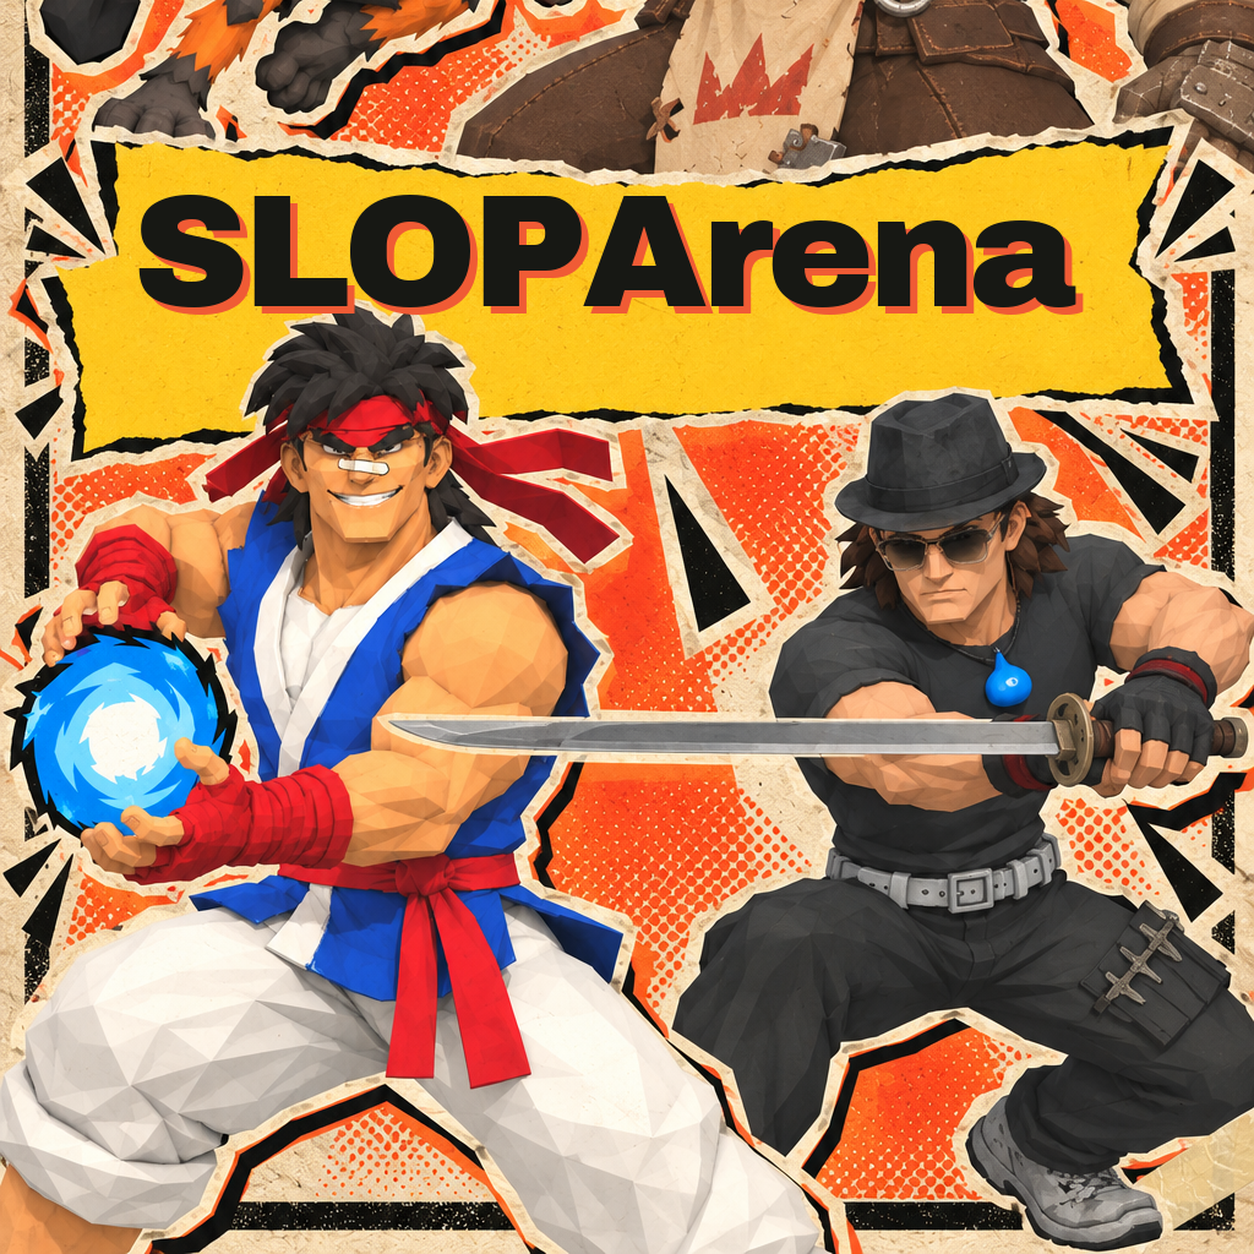
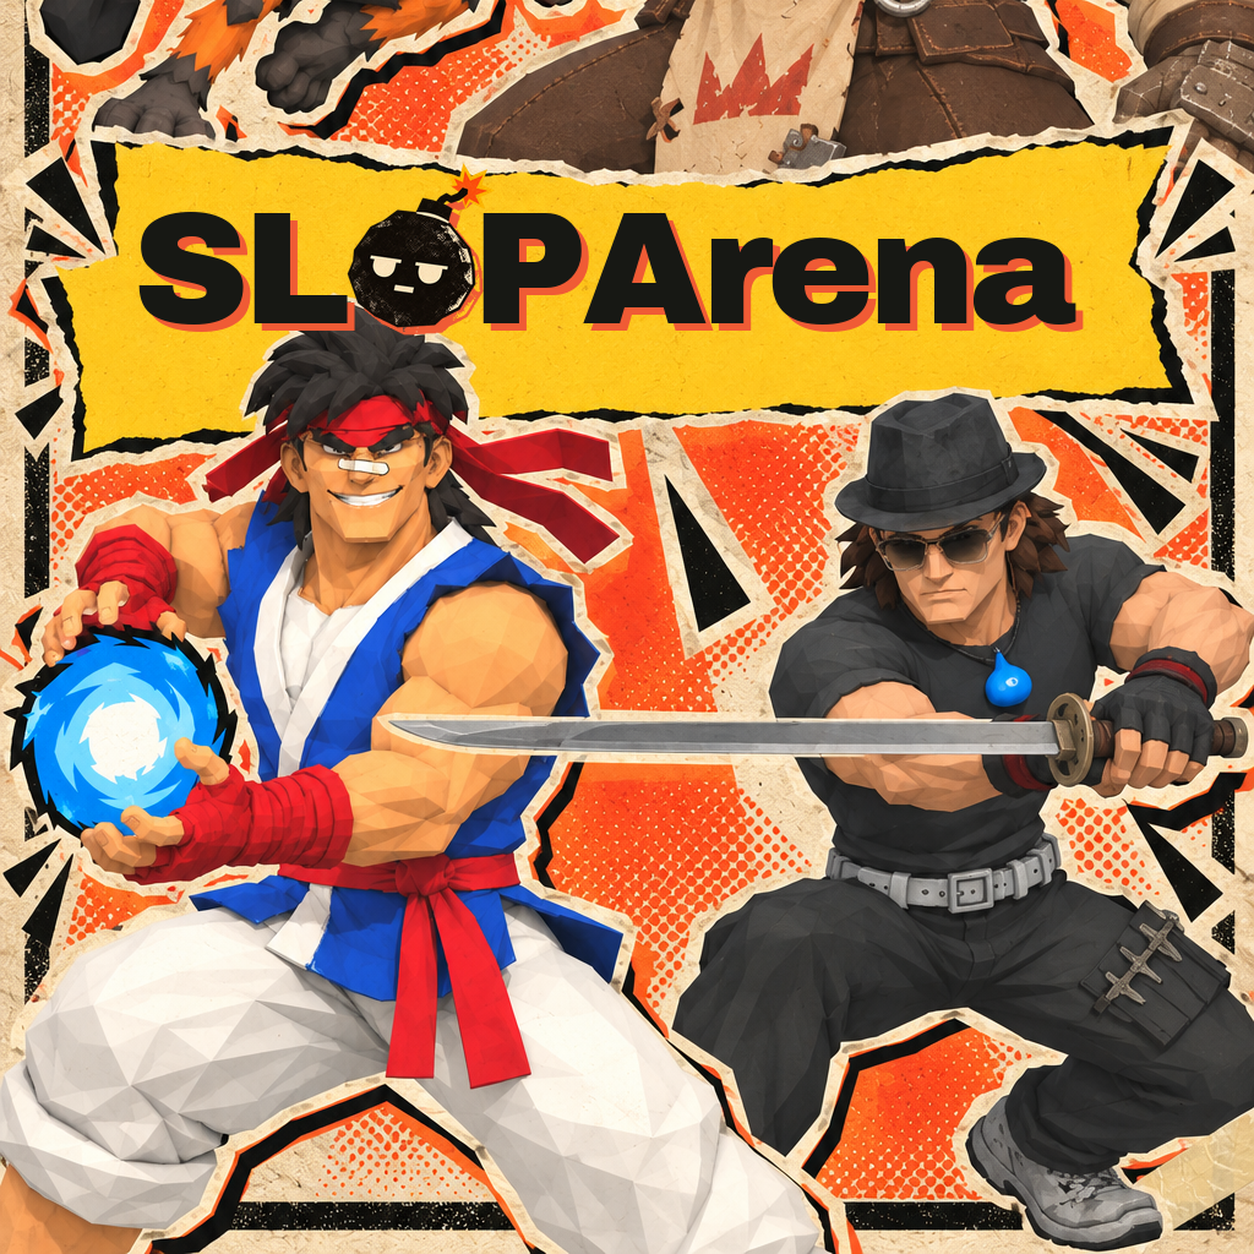
feat(art): bomb as the O in the large SLOPArena marks
The game icon's bomb stands in for the O on the Home poster, the After
Hours billboard and every mark the key art tool builds for Steam and the
website, its fuse and spark rising above the line. The top bar keeps the
plain letter, where the bomb's face would not read.

Changed region(s): [[0.0933, 0.1244, 0.8708, 0.2799]]

diff --git a/tools/key_art/key_art.py b/tools/key_art/key_art.py
@@ -1,11 +1,12 @@
 """Derive the game, Steam and website art from the generated key art originals.
 
 python3 tools/key_art/key_art.py build tools/key_art/set-2026-10-18.json [--only game,steam,web]
-python3 tools/key_art/key_art.py namemark <art.png> <out.png> --centre X Y --size PX [--angle DEG] [--tagline]
+python3 tools/key_art/key_art.py namemark <art.png> <out.png> --centre X Y --size PX [--angle DEG] [--bomb] [--tagline]
 
 The set file names the originals and every output: a byte copy, a crop and resize, the name mark
 typeset on a plate, the plate logo or an icon. The name mark is SLOPArena on one line in the bundled
-Archivo Black, never generated and never stacked as SLOP / ARENA (that reads as two words). See README.md.
+Archivo Black, never generated and never stacked as SLOP / ARENA (that reads as two words). On large
+marks the bomb from the game icon stands in for the O (`bomb`). See README.md.
 """
 import argparse
 import hashlib
@@ -14,10 +15,13 @@ import os
 import shutil
 from pathlib import Path
 
-from PIL import Image, ImageCms, ImageDraw, ImageFilter, ImageFont
+from PIL import Image, ImageChops, ImageCms, ImageDraw, ImageFilter, ImageFont
 
 REPO = Path(__file__).resolve().parents[2]
 FONTS = REPO / "client/Unity/Assets/Fonts"
+BOMB = REPO / "client/Unity/Assets/UI/SlopArenaIcon.png"
+# The bomb's round body in the 256 px icon, without its cap, fuse and spark: it takes the O's place.
+BOMB_BODY = (30, 75, 222, 253)
 INK, ORANGE, PAPER, YELLOW = (23, 24, 20, 255), (240, 91, 53, 255), (222, 216, 201, 255), (255, 204, 34, 255)
 # SlopArena-web's torn plate (scripts/social-preview.html): clip-path polygon in percent of the box.
 TORN = [(0, 3), (6, 0), (19, 2.4), (33, .4), (47, 2.2), (62, 0), (78, 2), (91, .2), (100, 1.8), (98.6, 19), (100, 37),
@@ -29,18 +33,48 @@ def font(name, size):
     return ImageFont.truetype(str(FONTS / name), size)
 
 
-def lettering(lines, size, tracking=-0.04, leading=0.89):
+def bomb_icon():
+    """The game icon and its dark silhouette (body, cap and fuse; not the spark) as a white mask."""
+    image = Image.open(BOMB).convert("RGBA")
+    dark = image.convert("L").point(lambda v: 255 if v < 90 else 0)
+    solid = image.getchannel("A").point(lambda v: 255 if v > 40 else 0)
+    silhouette = Image.new("RGBA", image.size, (255, 255, 255, 255))
+    silhouette.putalpha(ImageChops.multiply(dark, solid))
+    return image, silhouette
+
+
+def lettering(lines, size, tracking=-0.04, leading=0.89, bomb=False):
+    """White letter masks: (letters, bomb colour, bomb silhouette) on one canvas cropped to their ink.
+    With `bomb`, each O is left out and the bomb icon takes its place at 1.04x the O's height, its body
+    centred on the O and its fuse and spark rising above the line. Without it the bomb layers are None."""
     face = font("ArchivoBlack-Regular.ttf", size)
     widths = [sum(face.getlength(c) for c in line) + tracking * size * (len(line) - 1) for line in lines]
     ascent, descent = face.getmetrics()
-    layer = Image.new("RGBA", (int(max(widths)) + 4, int(size * leading) * (len(lines) - 1) + ascent + descent))
+    pad = size if bomb else 0
+    canvas = (int(max(widths)) + 4 + 2 * pad, int(size * leading) * (len(lines) - 1) + ascent + descent + 2 * pad)
+    layer = Image.new("RGBA", canvas)
+    colour = silhouette = None
+    if bomb:
+        icon, icon_silhouette = bomb_icon()
+        l, t, r, b = face.getbbox("O")
+        scale = 1.04 * (b - t) / (BOMB_BODY[3] - BOMB_BODY[1])
+        scaled = (round(icon.size[0] * scale), round(icon.size[1] * scale))
+        icon, icon_silhouette = icon.resize(scaled, Image.LANCZOS), icon_silhouette.resize(scaled, Image.LANCZOS)
+        body_x, body_y = (BOMB_BODY[0] + BOMB_BODY[2]) / 2 * scale, (BOMB_BODY[1] + BOMB_BODY[3]) / 2 * scale
+        colour, silhouette = Image.new("RGBA", canvas), Image.new("RGBA", canvas)
     draw = ImageDraw.Draw(layer)
     for row, line in enumerate(lines):
-        x = (layer.size[0] - widths[row]) / 2
+        x, y = (canvas[0] - widths[row]) / 2, pad + row * int(size * leading)
         for c in line:
-            draw.text((x, row * int(size * leading)), c, font=face, fill=(255, 255, 255, 255))
+            if bomb and c == "O":
+                at = (round(x + (l + r) / 2 - body_x), round(y + (t + b) / 2 - body_y))
+                colour.alpha_composite(icon, at)
+                silhouette.alpha_composite(icon_silhouette, at)
+            else:
+                draw.text((x, y), c, font=face, fill=(255, 255, 255, 255))
             x += face.getlength(c) + tracking * size
-    return layer.crop(layer.getbbox())
+    box = layer.getbbox() if colour is None else ImageChops.lighter(layer, colour).getbbox()
+    return tuple(None if part is None else part.crop(box) for part in (layer, colour, silhouette))
 
 
 def filled(mask, color):
@@ -49,13 +83,16 @@ def filled(mask, color):
     return out
 
 
-def name_mark(size, lines=("SLOPArena",), tagline=False):
+def name_mark(size, lines=("SLOPArena",), tagline=False, bomb=False):
     """Ink lettering over an off-register Orange print, as printed on the key art's yellow plates."""
-    mask = lettering(list(lines), size)
+    mask, colour, silhouette = lettering(list(lines), size, bomb=bomb)
+    printed = mask if silhouette is None else ImageChops.lighter(mask, silhouette)
     offset = max(4, size // 22)
     mark = Image.new("RGBA", (mask.size[0] + offset + 2, mask.size[1] + offset + 2))
-    mark.alpha_composite(filled(mask, ORANGE), (offset, offset))
+    mark.alpha_composite(filled(printed, ORANGE), (offset, offset))
     mark.alpha_composite(filled(mask, INK), (0, 0))
+    if colour is not None:
+        mark.alpha_composite(colour)
     if not tagline:
         return mark
     font_size = max(14, round(size * 0.26))
@@ -70,24 +107,19 @@ def name_mark(size, lines=("SLOPArena",), tagline=False):
     return block
 
 
-def stamp(art, centre, size, angle=0.0, lines=("SLOPArena",), tagline=False):
-    mark = name_mark(size, lines, tagline).rotate(angle, resample=Image.BICUBIC, expand=True)
+def stamp(art, centre, size, angle=0.0, lines=("SLOPArena",), tagline=False, bomb=False):
+    mark = name_mark(size, lines, tagline, bomb).rotate(angle, resample=Image.BICUBIC, expand=True)
     out = art.convert("RGBA")
     out.alpha_composite(mark, (int(centre[0] - mark.size[0] / 2), int(centre[1] - mark.size[1] / 2)))
     return out.convert("RGB")
 
 
-def plate_logo(width, shadow=0.035, scale=4):
+def plate_logo(width, shadow=0.035, scale=4, bomb=False):
     """The website's name mark: SLOPArena on its torn, dotted Action Yellow plate, rotated -1.6 degrees,
-    with a hard Ink offset shadow, on transparency. Drawn at `scale` and reduced for clean edges."""
-    em = 148 * scale
-    face = font("ArchivoBlack-Regular.ttf", em)
-    tracking, line_box = -0.055 * em, 0.84 * em
-    ascent, descent = face.getmetrics()
-    lines = ["SLOPArena"]
-    widths = [sum(face.getlength(c) + tracking for c in line) for line in lines]
-    pad_t, pad_r, pad_b, pad_l = (v * scale for v in (22, 34, 12, 26))
-    box = (round(pad_l + max(widths) + pad_r), round(pad_t + line_box * len(lines) + pad_b))
+    with a hard Ink offset shadow (`shadow` 0 for none), on transparency. Drawn at `scale` and reduced."""
+    letters, colour, _ = lettering(["SLOPArena"], 148 * scale, tracking=-0.055, bomb=bomb)
+    pad_t, pad_r, pad_b, pad_l = (v * scale for v in (22, 34, 14, 26))
+    box = (letters.size[0] + pad_l + pad_r, letters.size[1] + pad_t + pad_b)
     plate = Image.new("RGBA", box)
     draw = ImageDraw.Draw(plate)
     polygon = [(x / 100 * box[0], y / 100 * box[1]) for x, y in TORN]
@@ -101,15 +133,14 @@ def plate_logo(width, shadow=0.035, scale=4):
     ImageDraw.Draw(clip).polygon(polygon, fill=255)
     dots.putalpha(Image.composite(dots.split()[3], Image.new("L", box), clip))
     plate.alpha_composite(dots)
-    for row, line in enumerate(lines):
-        x, baseline = pad_l, pad_t + row * line_box + (line_box - ascent - descent) / 2 + ascent
-        for c in line:
-            draw.text((x, baseline), c, font=face, fill=INK, anchor="ls")
-            x += face.getlength(c) + tracking
+    plate.alpha_composite(filled(letters, INK), (pad_l, pad_t))
+    if colour is not None:
+        plate.alpha_composite(colour, (pad_l, pad_t))
     plate = plate.rotate(1.6, resample=Image.BICUBIC, expand=True)
     offset = round(shadow * plate.size[1])
     out = Image.new("RGBA", (plate.size[0] + offset, plate.size[1] + offset))
-    out.alpha_composite(filled(plate, INK), (offset, offset))
+    if offset:
+        out.alpha_composite(filled(plate, INK), (offset, offset))
     out.alpha_composite(plate)
     out = out.crop(out.getbbox())
     return out.resize((width, round(out.size[1] * width / out.size[0])), Image.LANCZOS)
@@ -174,7 +205,8 @@ def build(set_path, only, overrides):
                 image = Image.open(source)
                 if mark:
                     m = spec["marks"][mark] if isinstance(mark, str) else mark
-                    image = stamp(image, m["centre"], m["size"], m.get("angle", 0.0), tagline=m.get("tagline", False))
+                    image = stamp(image, m["centre"], m["size"], m.get("angle", 0.0), tagline=m.get("tagline", False),
+                                  bomb=m.get("bomb", False))
                 masters[key] = image
             image = masters[key]
             if "icon" in out:
@@ -208,12 +240,14 @@ def main():
     n.add_argument("--centre", type=float, nargs=2, metavar=("X", "Y"), required=True)
     n.add_argument("--size", type=int, required=True, help="Lettering size in image pixels")
     n.add_argument("--angle", type=float, default=0.0, help="Counter-clockwise degrees")
+    n.add_argument("--bomb", action="store_true", help="The game icon's bomb stands in for the O")
     n.add_argument("--tagline", action="store_true", help="Add a GET IN THE SLOP. strip")
     args = parser.parse_args()
     if args.command == "build":
         build(args.set, set(args.only.split(",")) if args.only else None, dict(args.root))
     else:
-        stamp(Image.open(args.art), args.centre, args.size, args.angle, tagline=args.tagline).save(args.out, optimize=True)
+        stamp(Image.open(args.art), args.centre, args.size, args.angle, tagline=args.tagline, bomb=args.bomb) \
+            .save(args.out, optimize=True)
 
 
 if __name__ == "__main__":

diff --git a/docs/design/key-art.md b/docs/design/key-art.md
@@ -13,7 +13,7 @@ crop, size and name mark; `python3 tools/key_art/key_art.py build <set>` rewrite
 **Name mark.** The game's name is set as **SLOPArena** on one line in Archivo Black: Ink lettering
 over an off-register Orange print on the art's yellow plates, or on the website's torn yellow plate
 for the logo. Never stack it as SLOP / ARENA or set it in capitals as SLOPARENA: the capitals spell
-the shorthand SLOPA. The tool typesets it; generated images carry no lettering.
+the shorthand SLOPA. On large marks (the Steam logo and capsules, the Home poster, the billboard and the website nameplate) the bomb from the game icon stands in for the O, its fuse and spark rising above the line; the owner picked this on 2026-10-18. Live UI text such as the game's top bar and the website header keeps the plain O. The tool typesets the mark; generated images carry no lettering.
 
 | Target | Source | How |
 | --- | --- | --- |
@@ -24,9 +24,9 @@ the shorthand SLOPA. The tool typesets it; generated images carry no lettering.
 | `Assets/UI/Arcade/SlopballPoster.png` | `Bonk's Night Court Smash.png` (P8), 1983x793 | as generated |
 | `Assets/UI/Arcade/CoursesPoster.png` | `course.png` (P9), 1983x793 | as generated; replaces the card's flat green field and its ONE MAP PER FIGHTER label |
 | `Assets/UI/FrontendPaperBackground.png` | `Warm newsprint with torn edge scraps.png` (P10), 1672x941 | as generated |
-| Steam store and library (`steam` outputs) | P5, P6, P7 (`... wide newsprint showdown-2.png`), P10 | capsules with the name mark; text-free hero upscaled to 3840x1240; transparent 1280x261 logo; README and previews beside them |
+| Steam store and library (`steam` outputs) | P5, P6, P7 (`... wide newsprint showdown-2.png`), P10 | capsules with the name mark; text-free hero upscaled to 3840x1240; transparent 1280x312 logo; README and previews beside them |
 | Steam community icon and client `.ico` | `Assets/UI/SlopArenaIcon.png` | the bomb on Action Yellow; replaces the X-eyed crowned smiley |
-| SlopArena-web portraits and trailer poster | the portraits; P5 without the mark | the play button sits on the empty plate |
+| SlopArena-web portraits, nameplate and trailer poster | the portraits; the logo; P5 without the mark | the shadowless logo is the hero nameplate and the social card's; the trailer's play button sits on the empty plate |
 
 The top bar's wordmark reads `SLOPArena` too. The two Arcade cards and the wallpaper keep their
 5:2 and 16:9 proportions (`nPOTScale: None`). The Home poster and wallpaper were local-only before;

diff --git a/docs/design/visual-language.md b/docs/design/visual-language.md
@@ -232,7 +232,7 @@ Character signature colors, team colors, gameplay category colors, and semantic 
 
 The visual system uses a common name mark and two typographic roles:
 
-1. **Name mark and declarations:** Archivo Black supplies the shared SLOPArena lettering and bold menu/marketing declarations. The yellow native name plate may remain as a container; its lettering is not a separate brand. Set the name on one line exactly as `SLOPArena`, never stacked `SLOP / ARENA` or in capitals as `SLOPARENA`, even where nearby labels are uppercase: its capitals spell the shorthand **SLOPA** (never SA). Typeset it; do not let an image generator draw it.
+1. **Name mark and declarations:** Archivo Black supplies the shared SLOPArena lettering and bold menu/marketing declarations. The yellow native name plate may remain as a container; its lettering is not a separate brand. Set the name on one line exactly as `SLOPArena`, never stacked `SLOP / ARENA` or in capitals as `SLOPARENA`, even where nearby labels are uppercase: its capitals spell the shorthand **SLOPA** (never SA). On large marks (logos, store capsules, posters, the website nameplate) the bomb from the game icon replaces the O; small or live text such as the top bar keeps the letter. Typeset it; do not let an image generator draw it.
 2. **Utility:** Space Mono supplies short marketing instructions, metadata, labels, and dry annotations. Native short labels may use a mono treatment where practical; dense settings, body copy, and HUD information use a restrained readable sans.
 
 Baloo 2 remains in the current native implementation but is not the target display voice. Do not imply Archivo is already bundled in Unity. Do not make every label display type or force monospace where it harms scanning.

diff --git a/tools/key_art/README.md b/tools/key_art/README.md
@@ -26,11 +26,16 @@ The name is **SLOPArena** on one line, in the bundled Archivo Black: Ink letteri
 off-register Orange print. Never stack SLOP / ARENA or set SLOPARENA in capitals; the capitals
 spell the shorthand SLOPA. A `mark` gives the centre, size and angle on a plate in the source
 image (`"tagline": true` adds a `GET IN THE SLOP.` strip; base Steam capsules carry only the
-name). `logo` draws the website's torn, dotted yellow plate with the name, on transparency.
+name). `"bomb": true` puts the game icon's bomb in place of the O, its body centred on the
+letter at 1.04x the O's height, with the fuse and spark rising above the line: use it on large
+marks: its face still reads on the Steam small capsule's ~40 px capitals, while the game's top
+bar (~15 px capitals) turns it into a smudge and keeps the plain O.
+`logo` draws the website's torn, dotted yellow plate with the name, on transparency
+(`"shadow": 0` drops its Ink offset shadow, as the website does).
 `namemark` stamps the mark on any other image:
 
 ```bash
-python3 tools/key_art/key_art.py namemark in.png out.png --centre 812 488 --size 112 --angle 3.2
+python3 tools/key_art/key_art.py namemark in.png out.png --centre 812 488 --size 112 --angle 3.2 --bomb
 ```
 
 ## Checks
